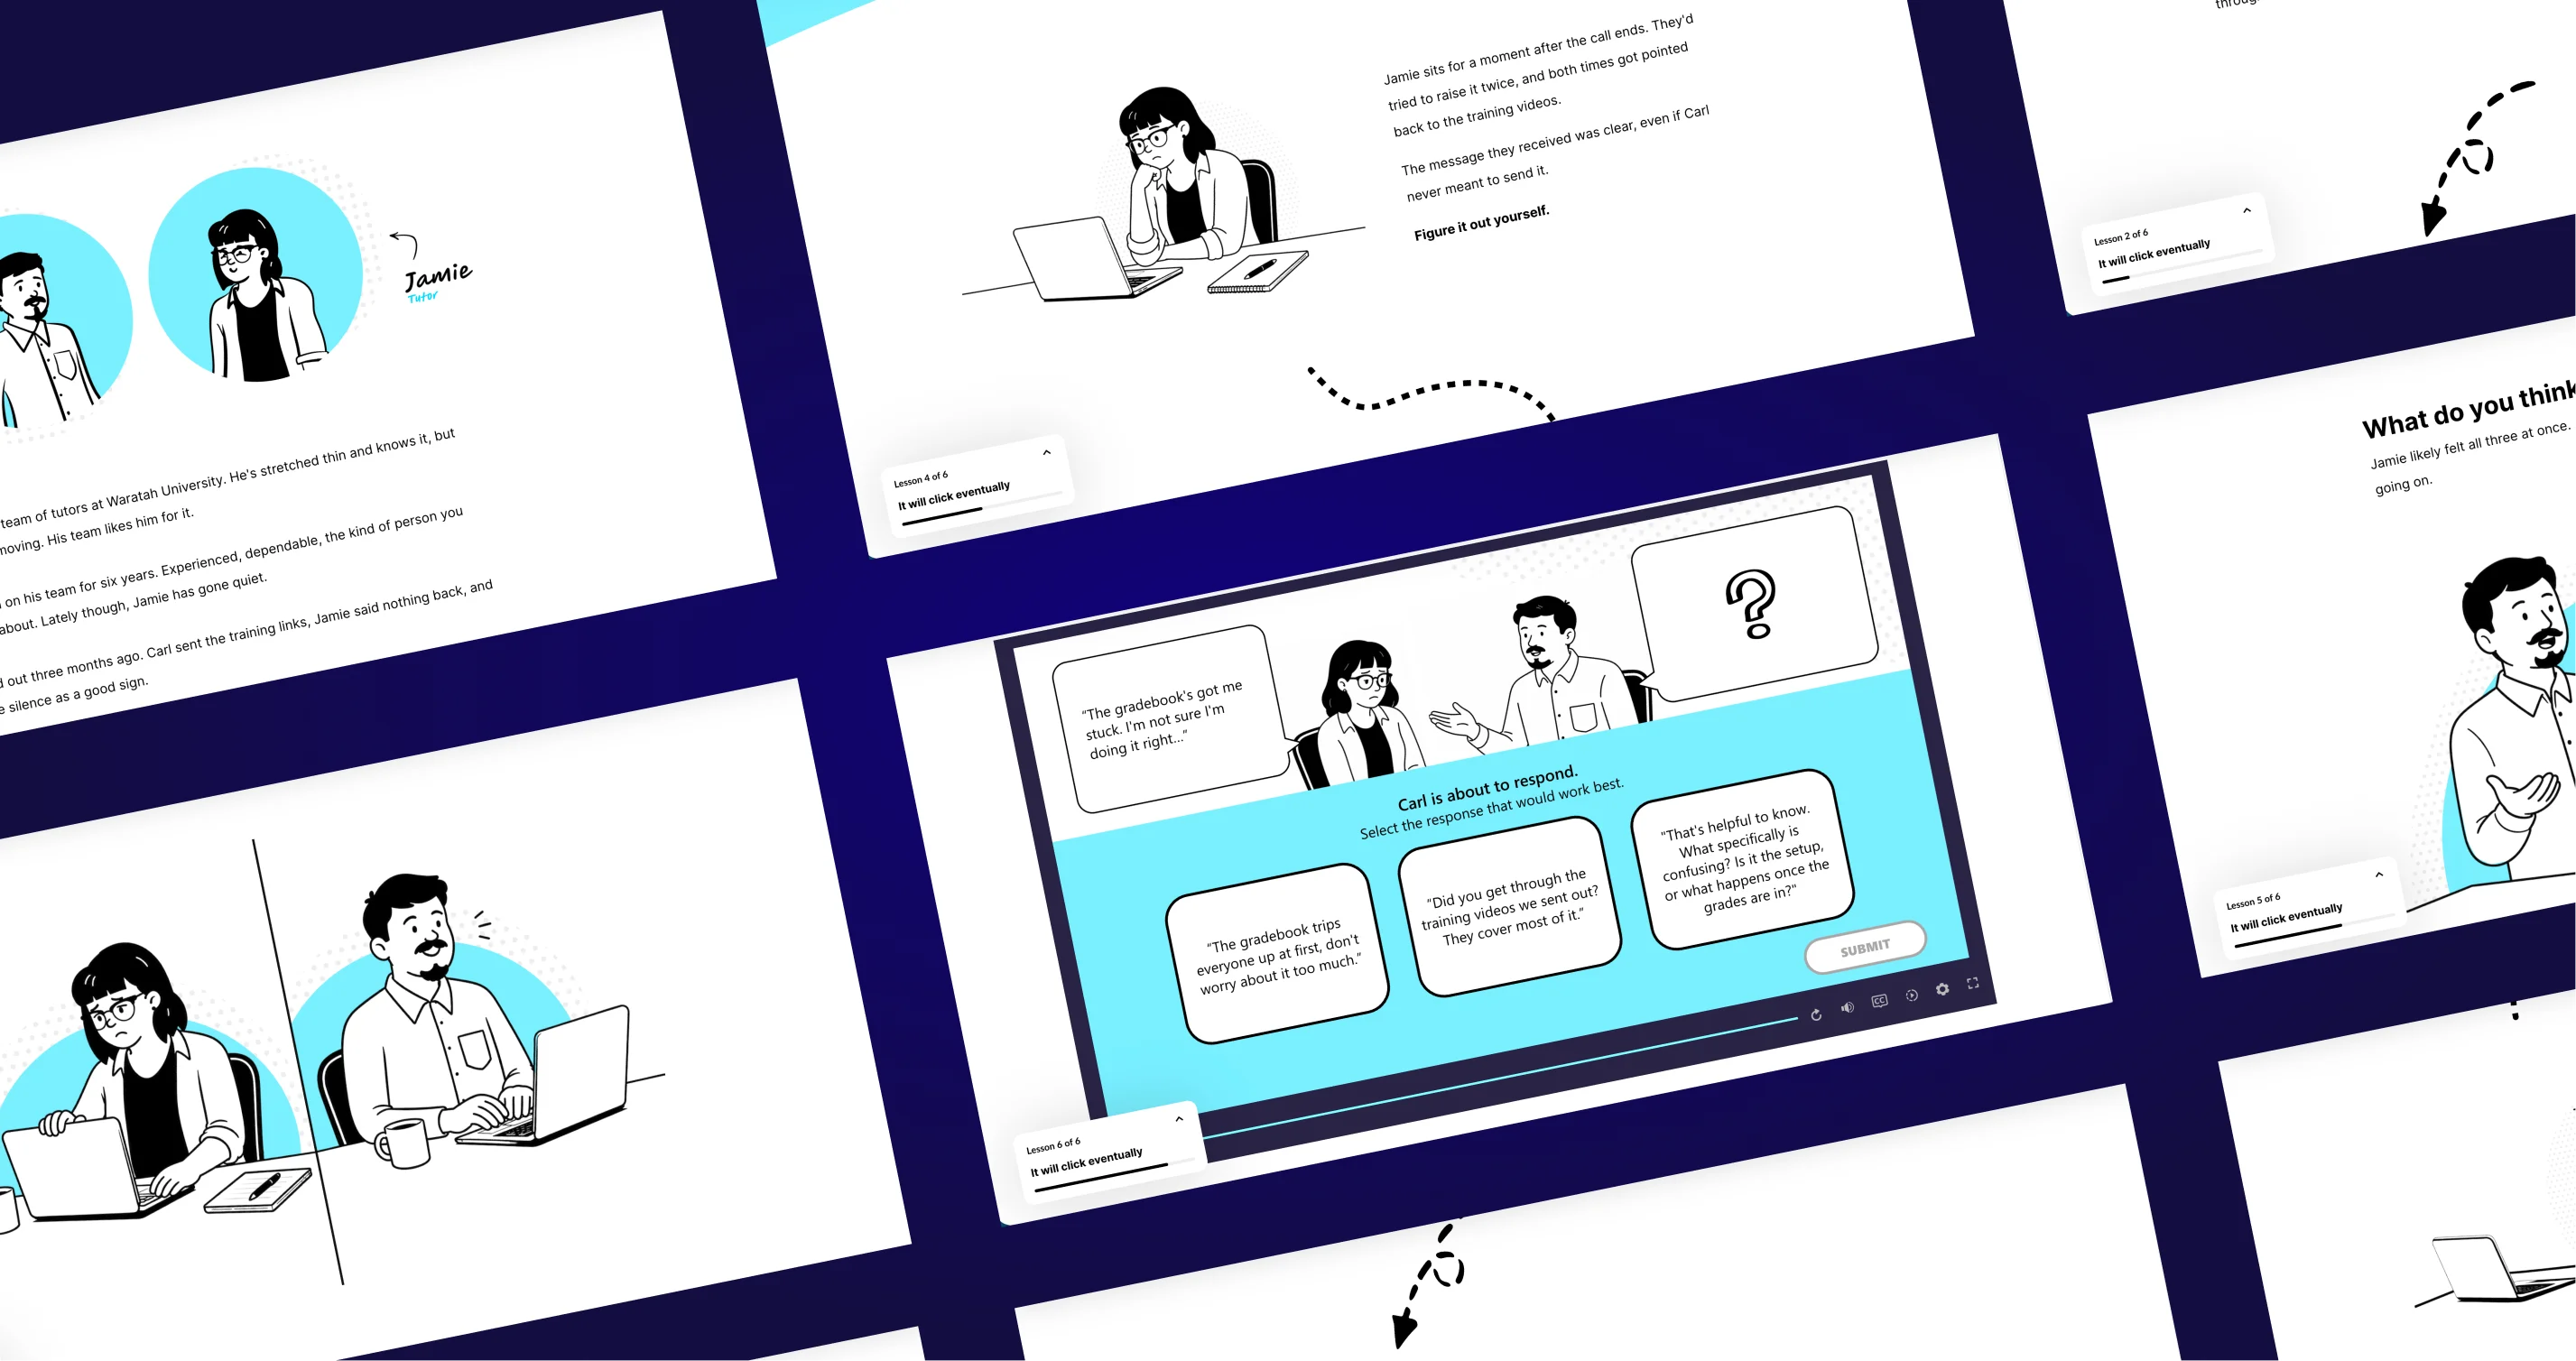
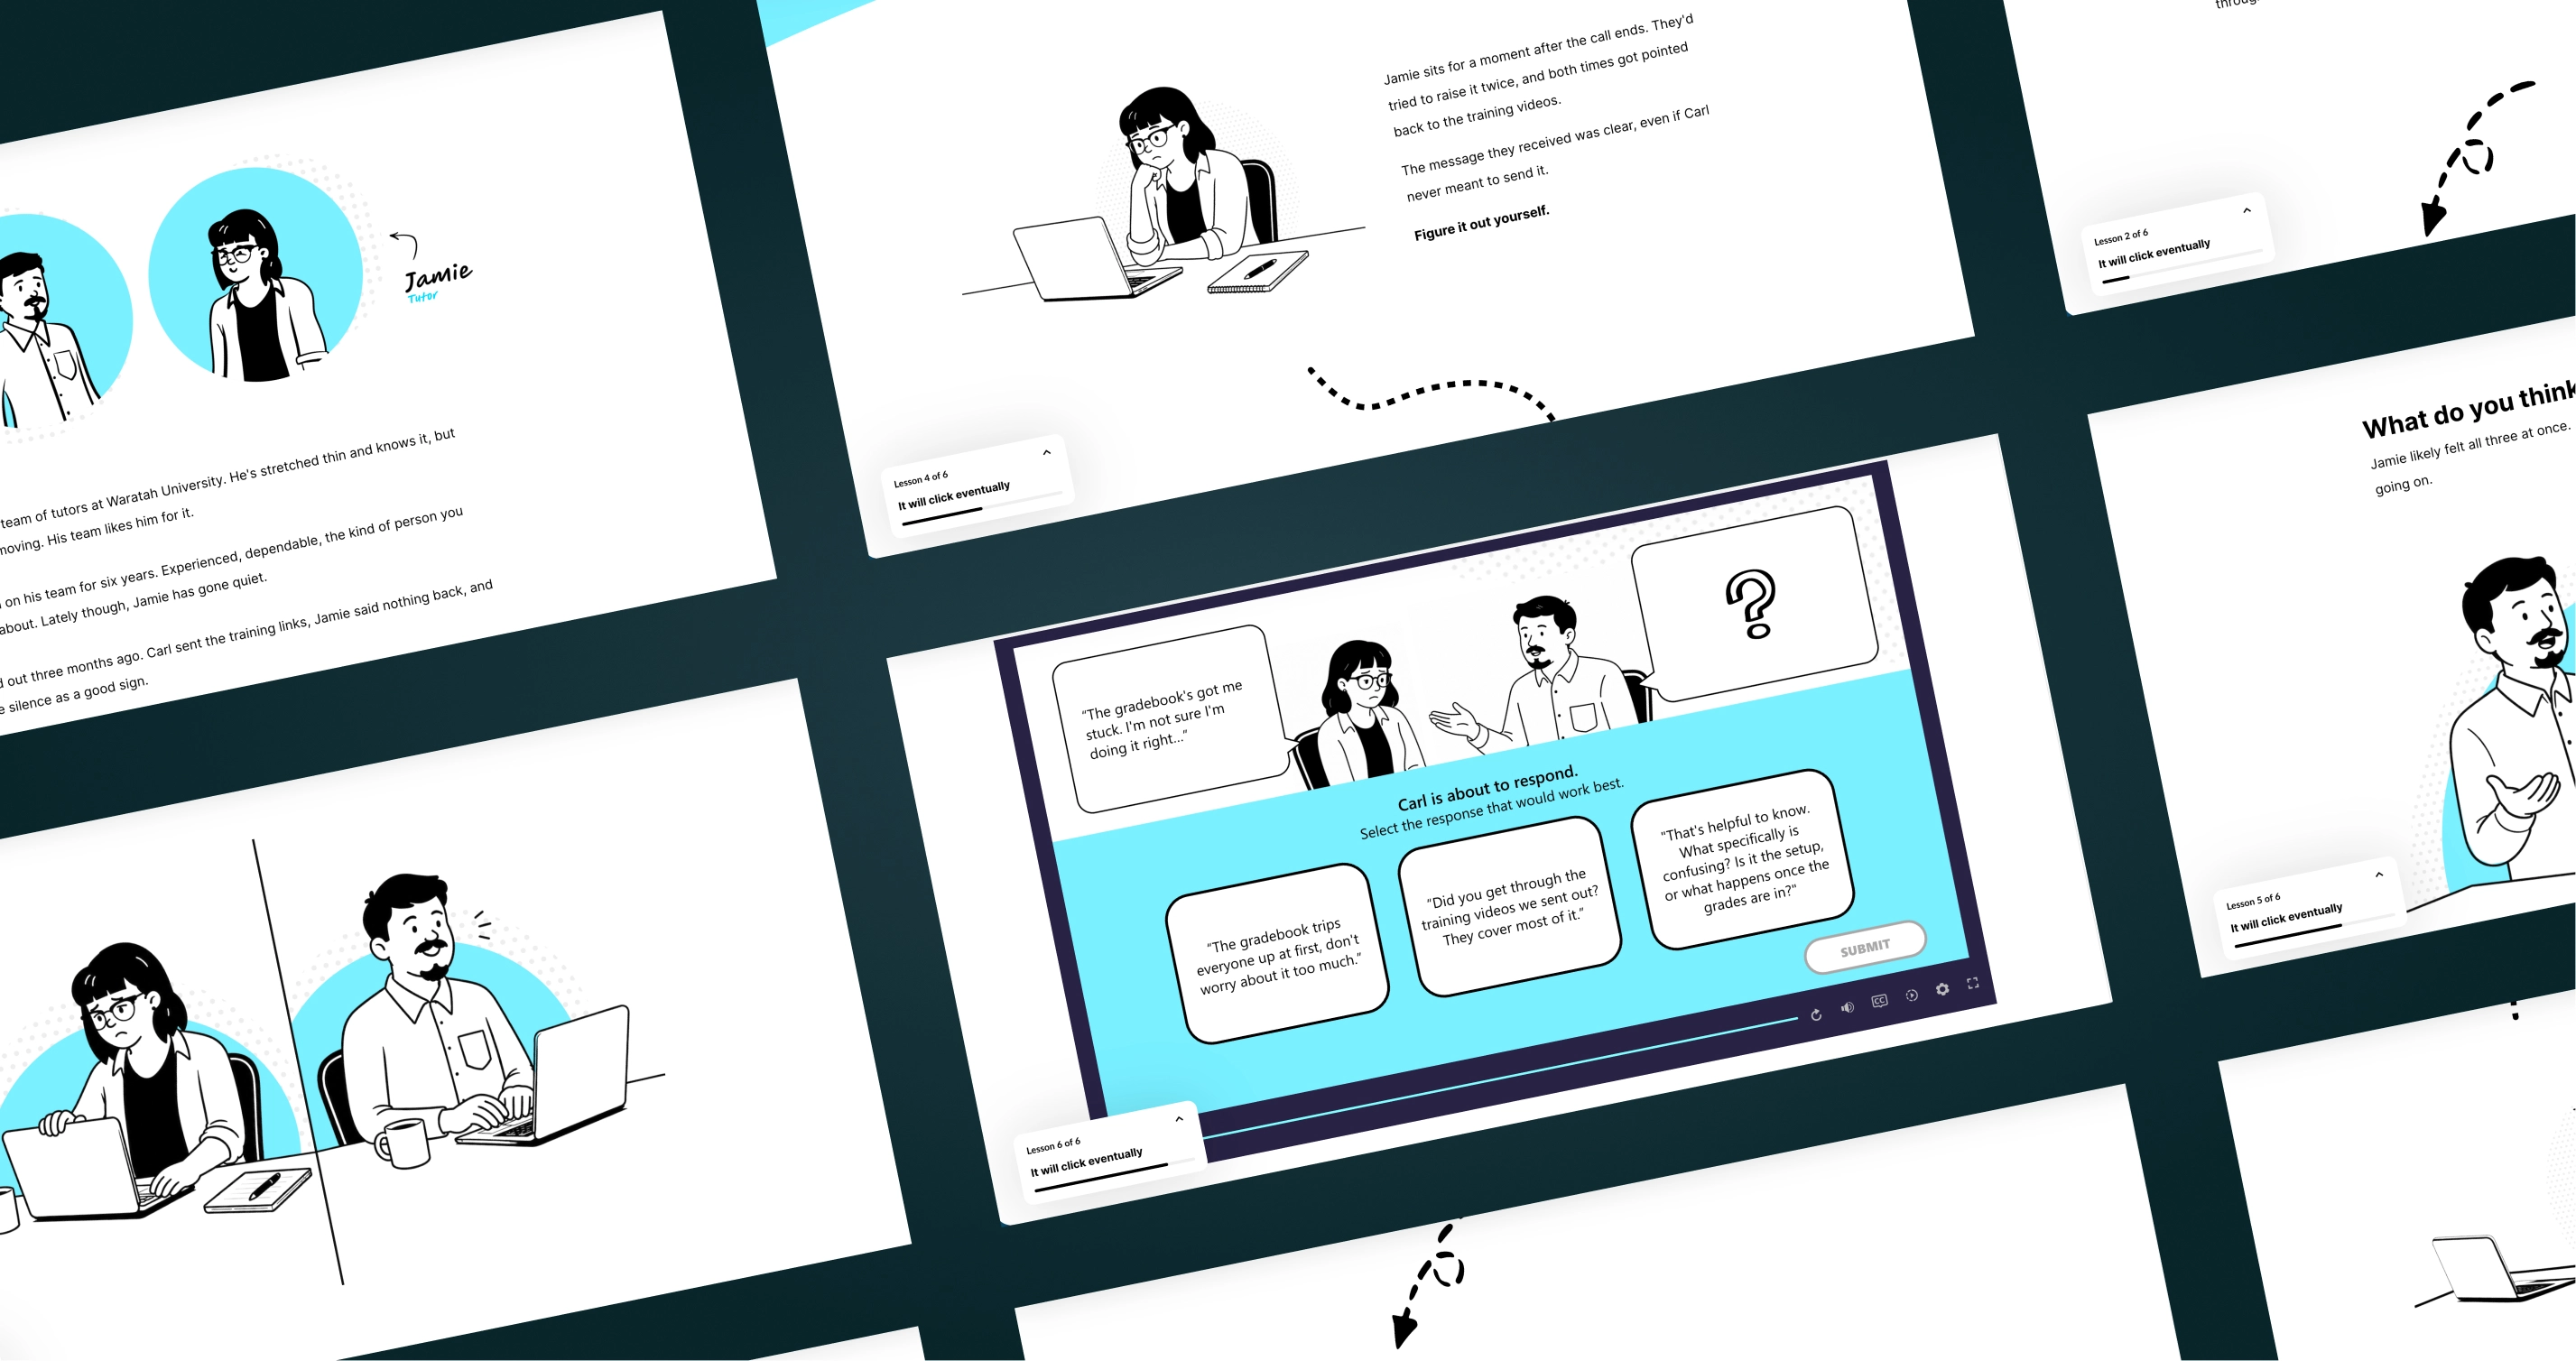
Fix small MOE hero image on landing page and hero section content on work page

Changed region(s): [[0.0, 0.0, 1.0, 1.0], [0.9979, 0.4363, 1.0, 0.4987], [0.1247, 0.9973, 0.1559, 1.0]]

diff --git a/client/features/product-design/ProductDesign.tsx b/client/features/product-design/ProductDesign.tsx
@@ -19,34 +19,36 @@ export default function ProductDesign() {
     <>
       <header
         aria-labelledby={headingId}
-        className="bg-ink relative w-full overflow-hidden"
+        className="relative w-full overflow-hidden bg-ink"
       >
-        <div aria-hidden="true" className="pointer-events-none absolute inset-0 z-0">
+        <div
+          aria-hidden="true"
+          className="pointer-events-none absolute inset-0 z-0"
+        >
           <div className="atmosphere-wash absolute inset-0" />
           <div className="atmosphere-rules absolute inset-0" />
         </div>
 
         <div className="relative z-10 mx-auto max-w-6xl px-6 pb-16 pt-[112px] sm:px-10 sm:pb-24 sm:pt-[164px] xl:px-0">
           <p
-            className={`reveal reveal--1 text-teal-mid mb-3 font-normal text-xs uppercase tracking-[0.16em] ${revealClass}`}
+            className={`reveal reveal--1 mb-3 text-xs font-normal uppercase tracking-[0.16em] text-teal-mid ${revealClass}`}
           >
             Work
           </p>
 
           <h1
             id={headingId}
-            className={`reveal reveal--2 text-paper mb-6 text-[clamp(2.75rem,8vw,5.5rem)] font-bold leading-[0.95] tracking-[-0.03em] ${revealClass}`}
+            className={`reveal reveal--2 mb-6 text-[clamp(2.75rem,8vw,5.5rem)] font-bold leading-[0.95] tracking-[-0.03em] text-paper ${revealClass}`}
           >
             <span className="block">Product design,</span>
             <span className="block">under real constraints.</span>
           </h1>
 
           <p
-            className={`reveal reveal--3 max-w-measure text-paper-muted text-[clamp(1.1rem,1.8vw,1.25rem)] ${revealClass}`}
+            className={`reveal reveal--3 max-w-measure text-[clamp(1.1rem,1.8vw,1.25rem)] text-paper-muted ${revealClass}`}
           >
-            Four projects across AI features, design systems, and research
-            tooling. Proof of how I work when the brief, the team, or the
-            timeline isn&rsquo;t ideal.
+            An AI feature, a growth project, and two design systems &mdash; I
+            can zoom out to build the system and zoom in to ship the feature.
           </p>
         </div>
       </header>

diff --git a/client/features/landing/components/WorkIndex.tsx b/client/features/landing/components/WorkIndex.tsx
@@ -5,6 +5,9 @@ import { useScrollReveal } from '../../../lib/useScrollReveal'
 type WorkItem = {
   id: number
   projectImage: string
+  /** Alternative crop for this preview panel; falls back to projectImage
+   *  when omitted. */
+  previewImage?: string
   projectTitle: string
   shortTitle: string
   company?: string
@@ -74,7 +77,7 @@ export default function WorkIndex({ projects, linkPrefix }: WorkIndexProps) {
               <>
                 <div className="aspect-[4/3] overflow-hidden rounded-2xl bg-charcoal-soft">
                   <img
-                    src={active.projectImage}
+                    src={active.previewImage ?? active.projectImage}
                     alt=""
                     aria-hidden="true"
                     className="h-full w-full object-cover"

diff --git a/client/data/projects.types.ts b/client/data/projects.types.ts
@@ -1,6 +1,10 @@
 export default interface Project {
   id: number
   projectImage: string
+  /** Alternative crop for WorkIndex's active-project preview panel, where
+   *  the original hero image's dimensions don't crop well. Falls back to
+   *  projectImage when omitted. */
+  previewImage?: string
   projectTitle: string
   /** Short, scannable label for list views (e.g. WorkIndex), as opposed to the
    *  fuller descriptive projectTitle used in the grid view. */

diff --git a/client/features/about/components/CommunitySection.tsx b/client/features/about/components/CommunitySection.tsx
@@ -223,8 +223,8 @@ function PhotoCarousel() {
       onMouseLeave={() => setIsHovering(false)}
     >
       <div className="relative min-w-0">
-        <div className="from-ink pointer-events-none absolute inset-y-0 left-0 z-10 w-16 bg-gradient-to-r to-transparent" />
-        <div className="from-ink pointer-events-none absolute inset-y-0 right-0 z-10 w-16 bg-gradient-to-l to-transparent" />
+        <div className="from-ink via-ink/50 pointer-events-none absolute inset-y-0 left-0 z-10 w-24 bg-gradient-to-r to-transparent sm:w-28" />
+        <div className="from-ink via-ink/50 pointer-events-none absolute inset-y-0 right-0 z-10 w-24 bg-gradient-to-l to-transparent sm:w-28" />
 
         {/* eslint-disable jsx-a11y/no-static-element-interactions, jsx-a11y/no-noninteractive-element-interactions, jsx-a11y/no-noninteractive-tabindex -- draggable scroll region; tabIndex is the standard fix for axe's scrollable-region-focusable rule, letting native arrow-key scrolling work once focused */}
         <div